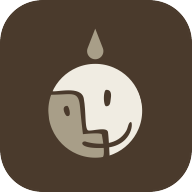
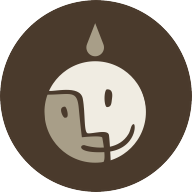
feat: 아이콘 타일을 정원으로
바탕화면·작업표시줄·탭에서 보이는 타일을 둥근 사각에서 정원으로 바꾼다.

우리가 모양을 정하는 자리만 바꿨다 — .ico, 파비콘, PWA 일반 아이콘.
마스커블과 애플 터치 아이콘은 각진 채로 둔다. 저 둘은 안드로이드와 iOS 가 제 모양으로
잘라내므로 가장자리까지 꽉 차 있어야 하고, 여기에 원을 그려 넣으면 잘린 자리에
빈 틈이 생긴다.

원 타일은 네 귀퉁이가 없어 같은 여백에서도 로고가 작아 보인다 — 여백을 0.13 에서
0.10 으로 한 단 줄여 눈에 보이는 크기를 맞췄다.

파비콘 주소도 ?v=3 으로 올린다(크롬이 주소마다 파비콘을 기억한다).
새 .ico 지문은 dc603ac1 이다.

diff --git a/infusion-room/index.html b/infusion-room/index.html
@@ -5,7 +5,7 @@
     <!-- ?v= 는 크롬의 파비콘 캐시를 끊기 위한 것이다. 크롬은 파비콘을 주소마다 따로
          기억해서, 파일 속만 바꾸면 창 제목줄에 옛 그림이 계속 남는다(실제로 그랬다).
          아이콘을 바꿀 때마다 이 숫자를 올린다. -->
-    <link rel="icon" type="image/svg+xml" href="/favicon.svg?v=2" />
+    <link rel="icon" type="image/svg+xml" href="/favicon.svg?v=3" />
     <!-- viewport-fit=cover: 아이패드 홈화면에서 띄우면 화면 끝까지 쓴다 -->
     <meta name="viewport" content="width=device-width, initial-scale=1.0, viewport-fit=cover" />
     <title>IV-story</title>
